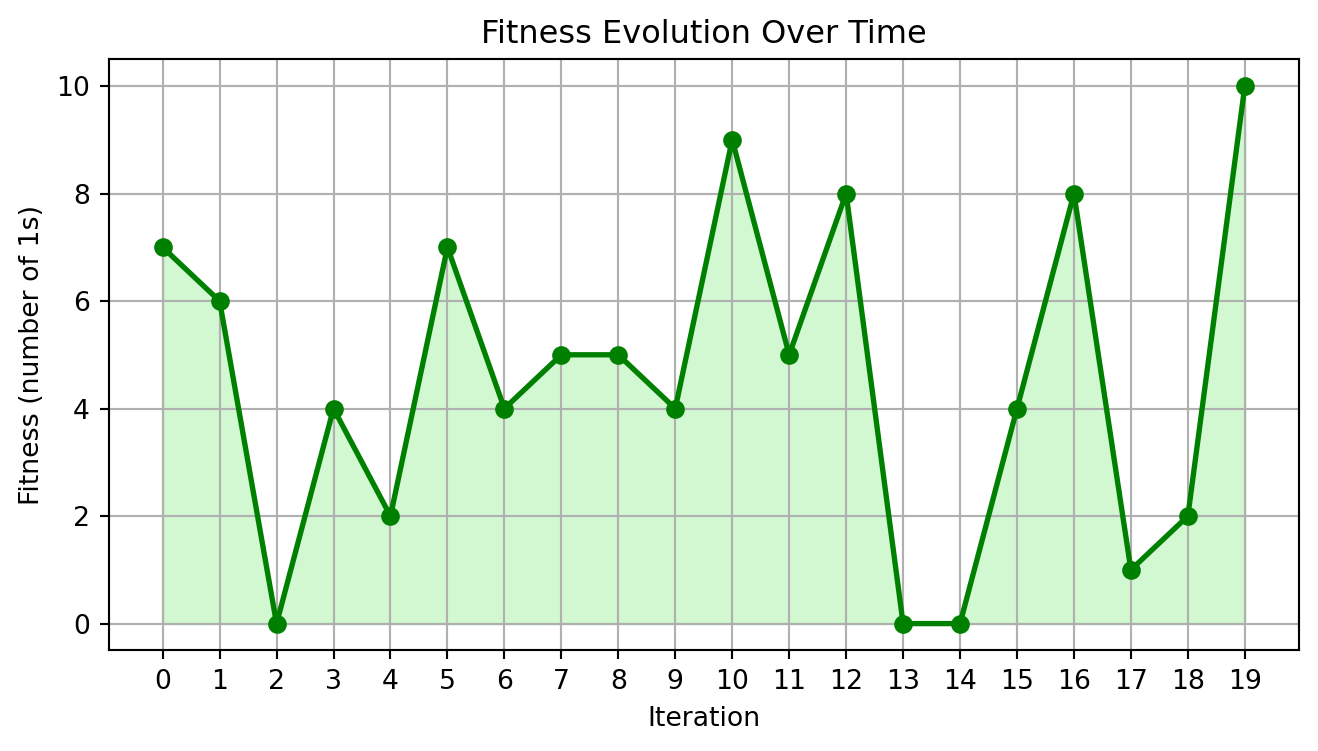
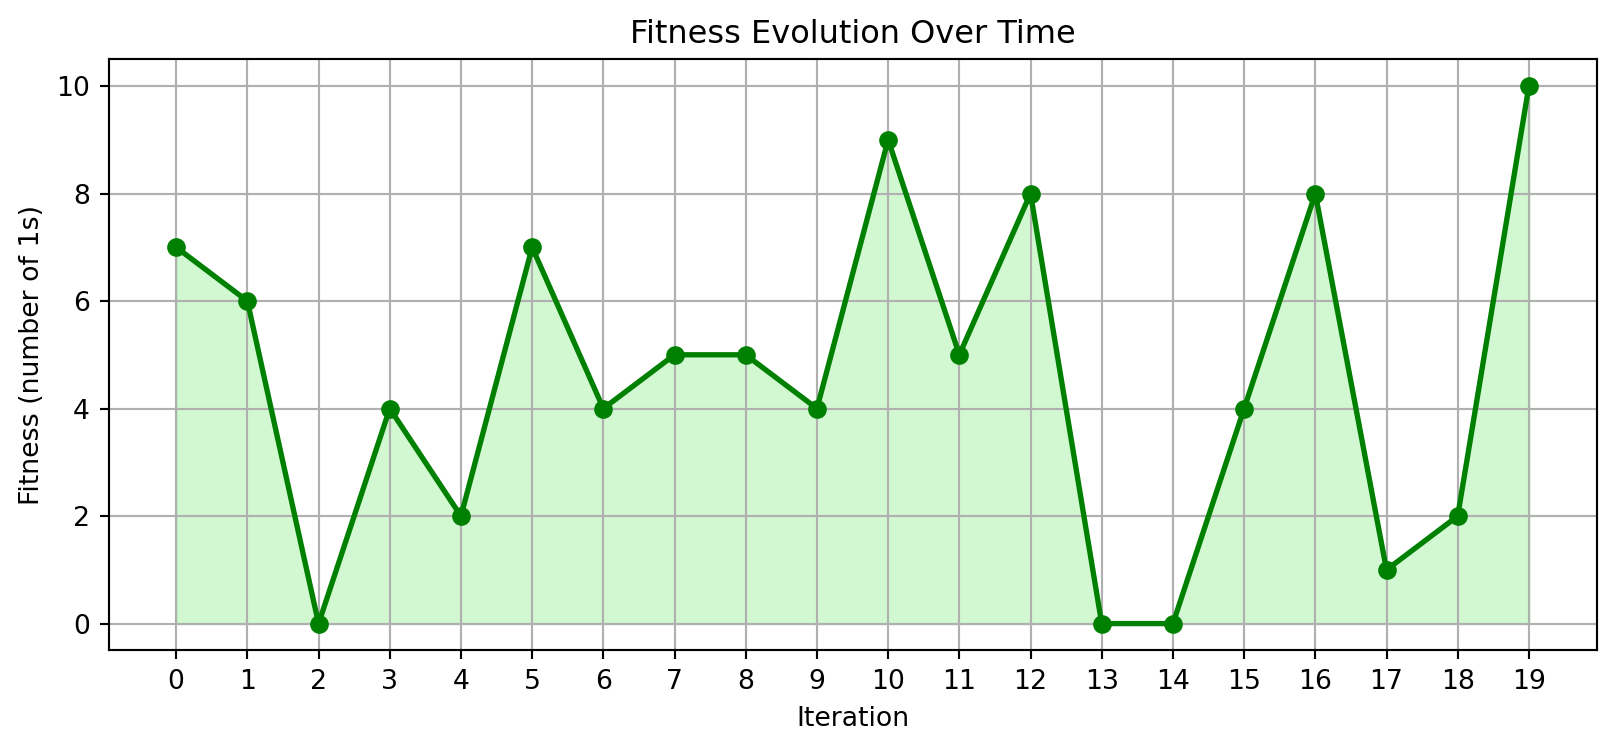
update viz

diff --git a/docs/benchmark.html b/docs/benchmark.html
@@ -329,7 +329,7 @@ window.Quarto = {
 <li>Example Run: If the generated binary string is [1, 0, 1, 1, 0, 1, 0, 1, 1, 0], the fitness would be 6, since there are six 1s in the string.</li>
 <li>The objective is to maximize the number of 1s in a binary string.</li>
 </ul>
-<p><span class="math inline">\(\max_{s \in A} f(s) = \sum_{i=1}^{n} s_i, \quad \text{subject to} \ s_i \in \{0, 1\}.\)</span></p>
+<p><span class="math display">\[\max_{s \in A} f(s) = \sum_{i=1}^{n} s_i, \quad \text{subject to} \ s_i \in \{0, 1\}.\]</span></p>
 <section id="optimal-solution-onemax" class="level3" data-number="6.1.1">
 <h3 data-number="6.1.1" class="anchored" data-anchor-id="optimal-solution-onemax"><span class="header-section-number">6.1.1</span> Optimal Solution OneMax</h3>
 <ul>
@@ -361,7 +361,7 @@ PRINT "Fitness (number of 1s):", fitness
 </section>
 <section id="onemax-python-implementation" class="level3" data-number="6.1.3">
 <h3 data-number="6.1.3" class="anchored" data-anchor-id="onemax-python-implementation"><span class="header-section-number">6.1.3</span> OneMax Python Implementation</h3>
-<div id="2db60063" class="cell" data-execution_count="1">
+<div id="5bf091e9" class="cell" data-execution_count="1">
 <div class="sourceCode cell-code" id="cb2"><pre class="sourceCode python code-with-copy"><code class="sourceCode python"><span id="cb2-1"><a href="#cb2-1" aria-hidden="true" tabindex="-1"></a><span class="im">import</span> numpy <span class="im">as</span> np</span>
 <span id="cb2-2"><a href="#cb2-2" aria-hidden="true" tabindex="-1"></a><span class="im">import</span> matplotlib.pyplot <span class="im">as</span> plt</span>
 <span id="cb2-3"><a href="#cb2-3" aria-hidden="true" tabindex="-1"></a><span class="im">import</span> seaborn <span class="im">as</span> sns</span>
@@ -386,7 +386,7 @@ PRINT "Fitness (number of 1s):", fitness
 <span id="cb2-22"><a href="#cb2-22" aria-hidden="true" tabindex="-1"></a>fitness_over_time <span class="op">=</span> [np.random.randint(<span class="dv">0</span>, n <span class="op">+</span> <span class="dv">1</span>) <span class="cf">for</span> _ <span class="kw">in</span> <span class="bu">range</span>(iterations)]  <span class="co"># Random example of fitness change</span></span>
 <span id="cb2-23"><a href="#cb2-23" aria-hidden="true" tabindex="-1"></a></span>
 <span id="cb2-24"><a href="#cb2-24" aria-hidden="true" tabindex="-1"></a><span class="co"># Line plot of fitness over iterations</span></span>
-<span id="cb2-25"><a href="#cb2-25" aria-hidden="true" tabindex="-1"></a>plt.figure(figsize<span class="op">=</span>(<span class="dv">8</span>, <span class="dv">4</span>))</span>
+<span id="cb2-25"><a href="#cb2-25" aria-hidden="true" tabindex="-1"></a>plt.figure(figsize<span class="op">=</span>(<span class="dv">10</span>, <span class="dv">4</span>))</span>
 <span id="cb2-26"><a href="#cb2-26" aria-hidden="true" tabindex="-1"></a>plt.plot(<span class="bu">range</span>(iterations), fitness_over_time, marker<span class="op">=</span><span class="st">'o'</span>, color<span class="op">=</span><span class="st">'green'</span>, linestyle<span class="op">=</span><span class="st">'-'</span>, linewidth<span class="op">=</span><span class="dv">2</span>)</span>
 <span id="cb2-27"><a href="#cb2-27" aria-hidden="true" tabindex="-1"></a>plt.fill_between(<span class="bu">range</span>(iterations), fitness_over_time, color<span class="op">=</span><span class="st">'lightgreen'</span>, alpha<span class="op">=</span><span class="fl">0.4</span>)</span>
 <span id="cb2-28"><a href="#cb2-28" aria-hidden="true" tabindex="-1"></a>plt.title(<span class="ss">f"Fitness Evolution Over Time"</span>)</span>
@@ -403,7 +403,7 @@ Fitness (number of 1s): 4</code></pre>
 <div class="cell-output cell-output-display">
 <div>
 <figure class="figure">
-<p><img src="benchmark_files/figure-html/cell-2-output-2.png" width="659" height="376" class="figure-img"></p>
+<p><img src="benchmark_files/figure-html/cell-2-output-2.png" width="808" height="376" class="figure-img"></p>
 </figure>
 </div>
 </div>
@@ -420,11 +420,11 @@ Fitness (number of 1s): 4</code></pre>
 <li>Without knowledge of the landscape of the solution space, the search process will easily get stuck in the peaks of this solution space.</li>
 <li>Hence, most researchers prefer using the one-max problem as an example because it is easy to implement and also because it can be used to prove if a new concept for a search algorithm is correct.</li>
 </ul>
-<div id="cd22c5f2" class="cell" data-execution_count="2">
+<div id="bc64370a" class="cell" data-execution_count="2">
 <div class="cell-output cell-output-display">
 <div>
 <figure class="figure">
-<p><img src="benchmark_files/figure-html/cell-3-output-1.png" width="799" height="551" class="figure-img"></p>
+<p><img src="benchmark_files/figure-html/cell-3-output-1.png" width="799" height="403" class="figure-img"></p>
 </figure>
 </div>
 </div>
@@ -657,7 +657,7 @@ PRINT Ackley function result for vector s
 </section>
 <section id="ackley-function-python-implementation" class="level4" data-number="7.1.1.6">
 <h4 data-number="7.1.1.6" class="anchored" data-anchor-id="ackley-function-python-implementation"><span class="header-section-number">7.1.1.6</span> Ackley Function Python Implementation</h4>
-<div id="d811fcef" class="cell" data-execution_count="3">
+<div id="77154aad" class="cell" data-execution_count="3">
 <div class="sourceCode cell-code" id="cb5"><pre class="sourceCode python code-with-copy"><code class="sourceCode python"><span id="cb5-1"><a href="#cb5-1" aria-hidden="true" tabindex="-1"></a><span class="im">import</span> numpy <span class="im">as</span> np</span>
 <span id="cb5-2"><a href="#cb5-2" aria-hidden="true" tabindex="-1"></a><span class="im">import</span> matplotlib.pyplot <span class="im">as</span> plt</span>
 <span id="cb5-3"><a href="#cb5-3" aria-hidden="true" tabindex="-1"></a><span class="im">from</span> mpl_toolkits.mplot3d <span class="im">import</span> Axes3D</span>
@@ -731,7 +731,7 @@ Ackley function result: 17.91745666838746</code></pre>
 <li>Differential Evolution (DE) is a population-based optimization algorithm used for solving complex multidimensional problems. It belongs to the family of evolutionary algorithms, where a population of candidate solutions evolves over time to find the global optimum of a function.</li>
 <li>The differential_evolution function from the scipy.optimize module is a powerful optimization tool designed to solve global optimization problems. It is a type of evolutionary algorithm, which is used when the function to optimize is non-linear, has many local minima, or is not differentiable.</li>
 </ul>
-<div id="44fd1e67" class="cell" data-execution_count="4">
+<div id="b4b1dbb9" class="cell" data-execution_count="4">
 <div class="sourceCode cell-code" id="cb7"><pre class="sourceCode python code-with-copy"><code class="sourceCode python"><span id="cb7-1"><a href="#cb7-1" aria-hidden="true" tabindex="-1"></a><span class="im">import</span> numpy <span class="im">as</span> np</span>
 <span id="cb7-2"><a href="#cb7-2" aria-hidden="true" tabindex="-1"></a><span class="im">from</span> scipy.optimize <span class="im">import</span> differential_evolution</span>
 <span id="cb7-3"><a href="#cb7-3" aria-hidden="true" tabindex="-1"></a><span class="im">import</span> matplotlib.pyplot <span class="im">as</span> plt</span>
@@ -833,7 +833,7 @@ Function value at minimum: 4.440892098500626e-16</code></pre>
 <li>Complexity: Despite its simplicity, the problem is useful for benchmarking optimization algorithms, especially in multi-objective optimization.</li>
 <li>Graphically, the Pareto front of the Schaffer min-min problem can be visualized as a curve in the objective space, where <span class="math inline">\(f_1(x)\)</span> is plotted against <span class="math inline">\(f_2(x)\)</span> and the curve represents the set of optimal trade-offs between the two objectives.</li>
 </ul>
-<div id="d4e40d84" class="cell" data-execution_count="5">
+<div id="ef54dfdd" class="cell" data-execution_count="5">
 <div class="cell-output cell-output-display">
 <div>
 <figure class="figure">
@@ -914,7 +914,7 @@ PRINT "Combined objective:", combined_objective(result.x)
 <li>Score Combination: The results of the two functions are combined into a single score, which can be minimized. In this case, the combination is a simple sum of f1 and f2.</li>
 <li>Optimization Loop: Iteratively updates the solutions to find the minimum combined score using an optimization technique (e.g., gradient descent, genetic algorithm).</li>
 </ul>
-<div id="ffc4b422" class="cell" data-execution_count="6">
+<div id="6f051eb5" class="cell" data-execution_count="6">
 <div class="sourceCode cell-code" id="cb10"><pre class="sourceCode python code-with-copy"><code class="sourceCode python"><span id="cb10-1"><a href="#cb10-1" aria-hidden="true" tabindex="-1"></a><span class="im">import</span> numpy <span class="im">as</span> np</span>
 <span id="cb10-2"><a href="#cb10-2" aria-hidden="true" tabindex="-1"></a><span class="im">from</span> scipy.optimize <span class="im">import</span> minimize</span>
 <span id="cb10-3"><a href="#cb10-3" aria-hidden="true" tabindex="-1"></a><span class="im">import</span> matplotlib.pyplot <span class="im">as</span> plt</span>
